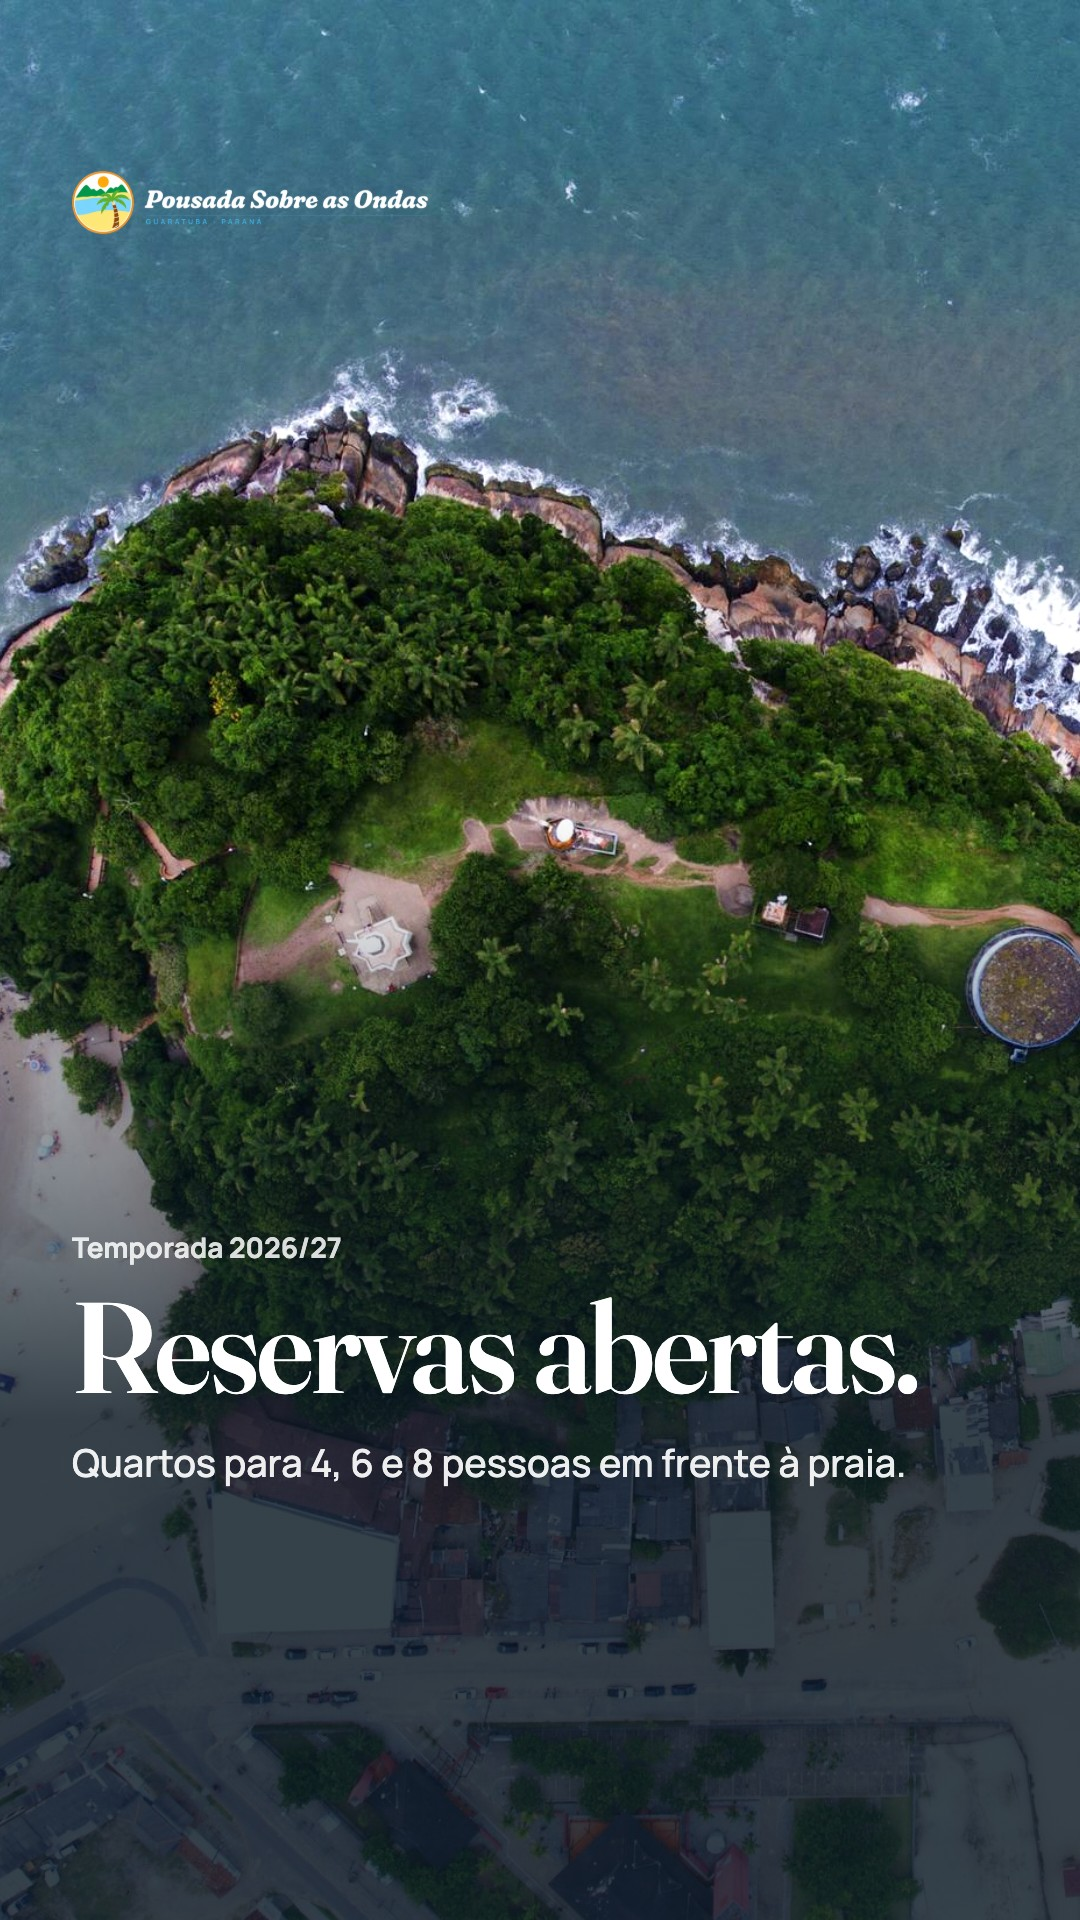
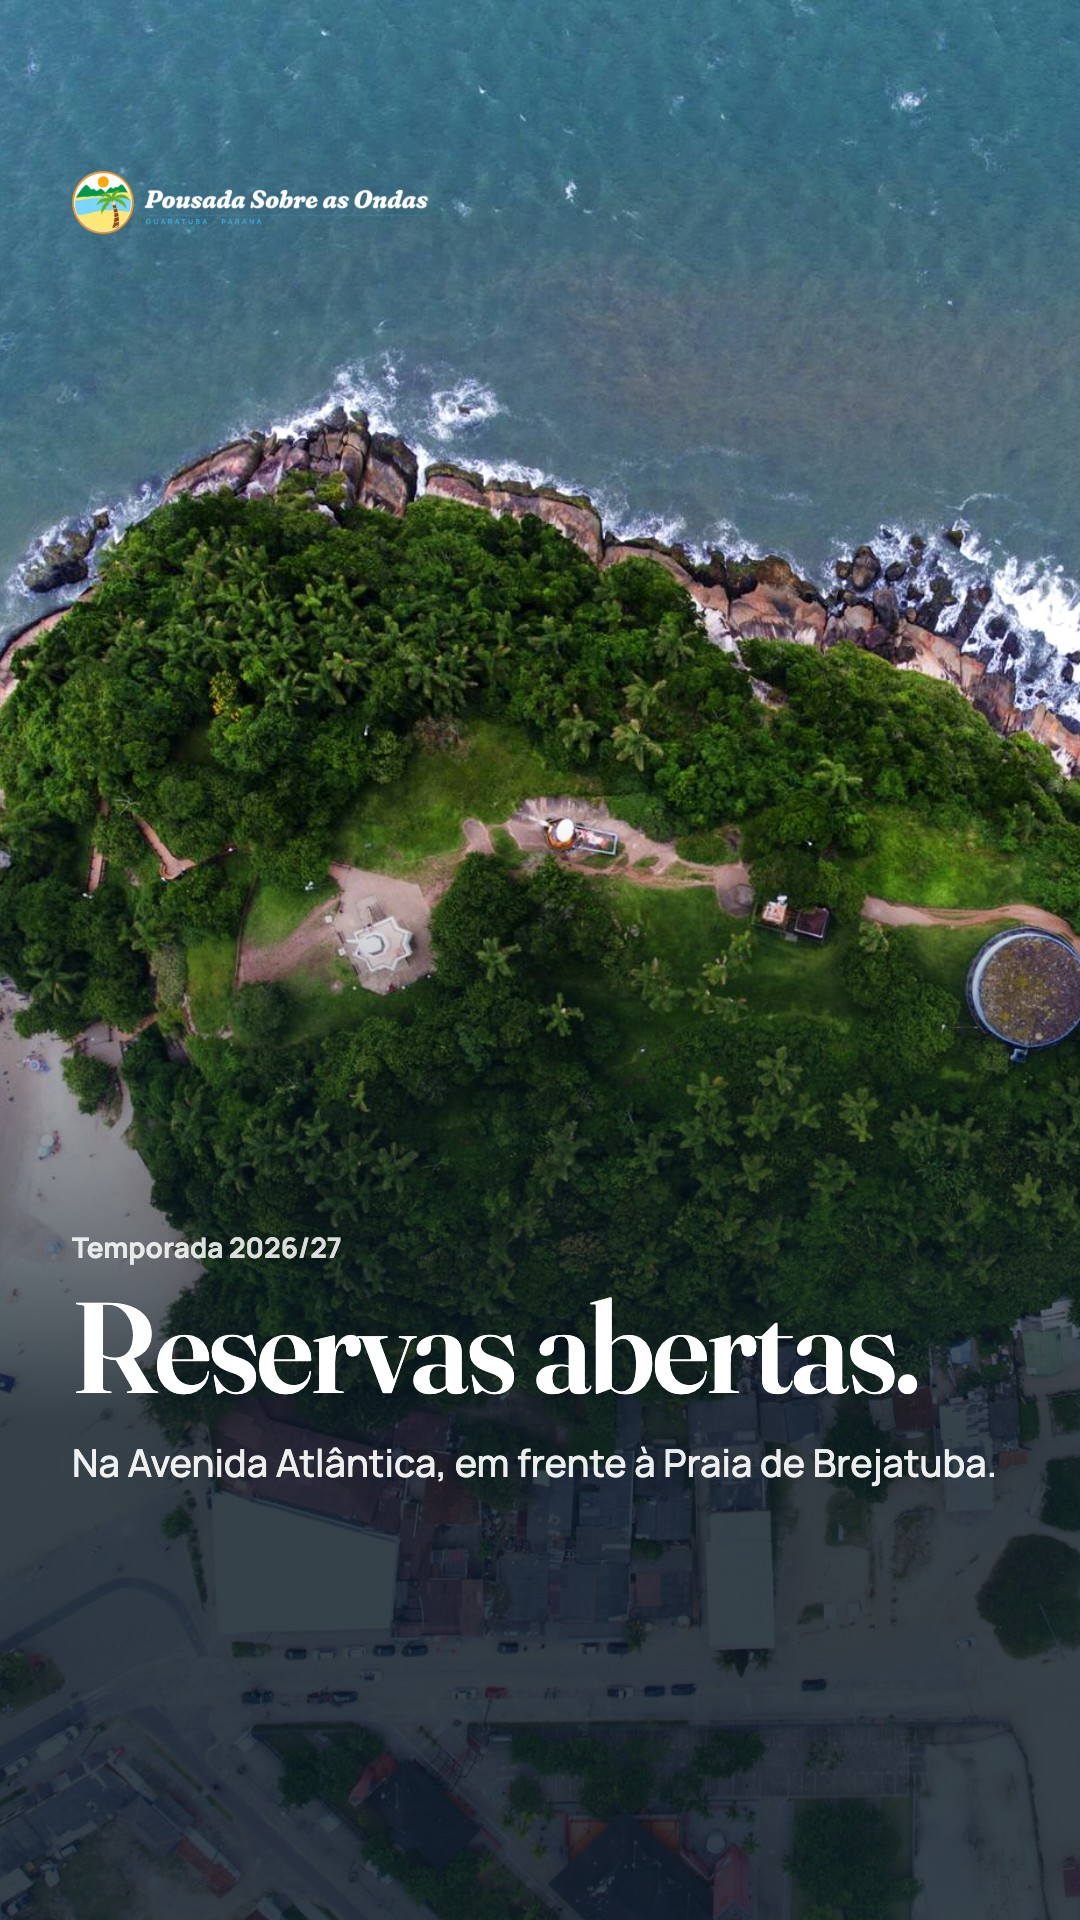
Tira destaque do quarto de 8 pessoas e de quartos com vista para o mar
A pousada continua descrita como em frente à praia, mas os textos não
afirmam mais que os quartos têm vista para o mar. Card do quarto de 8
pessoas sai; grupos maiores consultam pelo WhatsApp.

Changed region(s): [[0.2444, 0.75, 0.9167, 0.7812], [0.0611, 0.75, 0.2139, 0.7812]]

diff --git a/index.html b/index.html
@@ -4,14 +4,14 @@
   <meta charset="utf-8">
   <meta name="viewport" content="width=device-width, initial-scale=1">
   <title>Pousada Sobre as Ondas · Frente para o mar em Guaratuba, PR</title>
-  <meta name="description" content="Pousada Sobre as Ondas: de frente para o mar na Avenida Atlântica, Brejatuba, Guaratuba – PR. Suítes com vista para o mar, quartos para 4, 6 e 8 pessoas com TV, frigobar e ventilador, atendimento 24 horas, Wi-Fi grátis e churrasqueira.">
+  <meta name="description" content="Pousada Sobre as Ondas: de frente para o mar na Avenida Atlântica, Brejatuba, Guaratuba – PR. quartos para famílias e grupos com TV, frigobar e ventilador, atendimento 24 horas, Wi-Fi grátis e churrasqueira.">
   <meta name="keywords" content="pousada guaratuba, pousada frente para o mar, hospedagem guaratuba, brejatuba, morro do cristo, litoral do paraná">
   <meta name="theme-color" content="#0e2a3b">
 
   <meta property="og:type" content="website">
   <meta property="og:locale" content="pt_BR">
   <meta property="og:title" content="Pousada Sobre as Ondas · Guaratuba, PR">
-  <meta property="og:description" content="De frente para o mar, ao lado do Morro do Cristo. Suítes com vista, atendimento 24h e o melhor de Guaratuba.">
+  <meta property="og:description" content="De frente para o mar, ao lado do Morro do Cristo. Atendimento 24h e o melhor de Guaratuba.">
   <meta property="og:url" content="https://pousadasobreasondas.com.br/">
   <meta property="og:image" content="https://pousadasobreasondas.com.br/images/pousada/vista-praia-morro.jpg">
 
@@ -167,11 +167,11 @@
         <div class="hero__titles">
           <h1 class="hero__title is-active">O mar é o seu <em>vizinho</em>.</h1>
           <h2 class="hero__title">Ao pé do <em>Morro do Cristo</em>.</h2>
-          <h2 class="hero__title">Acorde com <em>vista para o mar</em>.</h2>
+          <h2 class="hero__title">A praia do outro lado <em>da avenida</em>.</h2>
           <h2 class="hero__title">Espaço para <em>a família toda</em>.</h2>
           <h2 class="hero__title">O melhor lugar para <em>aproveitar Guaratuba</em>.</h2>
         </div>
-        <p class="hero__lead">De frente para a praia, na Avenida Atlântica. Suítes com vista, atendimento 24 horas e o descanso que você merece.</p>
+        <p class="hero__lead">De frente para a praia, na Avenida Atlântica. Quartos com TV, frigobar e ventilador, atendimento 24 horas e o descanso que você merece.</p>
         <div class="hero__actions">
           <a href="#reservar" class="btn btn--gold">Consultar disponibilidade</a>
           <a href="#sobre" class="btn btn--ghost">Conheça a pousada</a>
@@ -253,7 +253,7 @@
               </div>
             </div>
             <div class="kids-ages" id="kids-ages" hidden></div>
-            <p class="picker__note">Quartos para 4, 6 e 8 pessoas.</p>
+            <p class="picker__note">Quartos para famílias e grupos.</p>
             <div class="picker__foot">
               <button type="button" class="btn btn--gold btn--sm" data-guests="done">Pronto</button>
             </div>
@@ -358,7 +358,7 @@
             </div>
           </article>
           <article class="room-card">
-            <div class="room-card__img"><img src="images/pousada/quarto-vista-mar.jpg" alt="Quarto para 6 pessoas com vista para o mar" loading="lazy"><span class="room-card__tag">Família</span></div>
+            <div class="room-card__img"><img src="images/pousada/quarto-grupo.jpg" alt="Quarto para 6 pessoas" loading="lazy"><span class="room-card__tag">Família</span></div>
             <div class="room-card__body">
               <h3>Quarto para 6 pessoas</h3>
               <p>Mais espaço para a família ou a turma, com conforto para descansar depois do dia de praia.</p>
@@ -371,27 +371,13 @@
               <a class="link-arrow room-card__cta" href="https://api.whatsapp.com/send?phone=5541999021861&amp;text=Ol%C3%A1!%20Gostaria%20de%20consultar%20disponibilidade%20do%20quarto%20para%206%20pessoas." target="_blank" rel="noopener">Consultar este quarto <svg><use href="#i-arrow"/></svg></a>
             </div>
           </article>
-          <article class="room-card">
-            <div class="room-card__img"><img src="images/pousada/quarto-beliches.jpg" alt="Quarto amplo para 8 pessoas com beliches" loading="lazy"><span class="room-card__tag">Grupos</span></div>
-            <div class="room-card__body">
-              <h3>Quarto para 8 pessoas</h3>
-              <p>Amplo e arejado, perfeito para famílias grandes, turmas e excursões.</p>
-              <ul class="room-card__amen">
-                <li><svg><use href="#i-tv"/></svg>TV</li>
-                <li><svg><use href="#i-fan"/></svg>Ventilador</li>
-                <li><svg><use href="#i-fridge"/></svg>Frigobar</li>
-                <li><svg><use href="#i-bath"/></svg>Banheiro</li>
-              </ul>
-              <a class="link-arrow room-card__cta" href="https://api.whatsapp.com/send?phone=5541999021861&amp;text=Ol%C3%A1!%20Gostaria%20de%20consultar%20disponibilidade%20do%20quarto%20para%208%20pessoas." target="_blank" rel="noopener">Consultar este quarto <svg><use href="#i-arrow"/></svg></a>
-            </div>
-          </article>
-        </div>
+                  </div>
       </div>
 
       <div class="container">
         <div class="rooms__info reveal">
           <div class="rooms__info-item"><svg><use href="#i-tv"/></svg><p><strong>Todos os quartos</strong> têm TV, banheiro, ventilador e frigobar.</p></div>
-          <div class="rooms__info-item"><svg><use href="#i-users"/></svg><p><strong>Quartos para 4, 6 e 8 pessoas</strong>, ideais para famílias e grupos.</p></div>
+          <div class="rooms__info-item"><svg><use href="#i-users"/></svg><p><strong>Quartos para 4 e 6 pessoas.</strong> Para grupos maiores, consulte pelo WhatsApp.</p></div>
           <div class="rooms__info-item"><svg><use href="#i-meal"/></svg><p><strong>Na temporada de verão</strong> oferecemos refeições completas.</p></div>
           <div class="rooms__info-item"><svg><use href="#i-bed"/></svg><p><strong>Traga sua roupa de cama:</strong> lençol, travesseiro e fronha.</p></div>
         </div>
@@ -559,7 +545,6 @@
           <a class="g-item" data-cat="quartos" href="images/pousada/quarto-casal-beliche.jpg"><img src="images/pousada/quarto-casal-beliche.jpg" alt="Quarto com cama de casal e beliche" loading="lazy"></a>
           <a class="g-item" data-cat="pousada" href="images/pousada/fachada.jpg"><img src="images/pousada/fachada.jpg" alt="Fachada da pousada" loading="lazy"></a>
           <a class="g-item" data-cat="pousada" href="images/pousada/terraco-vista-morro.jpg"><img src="images/pousada/terraco-vista-morro.jpg" alt="Terraço com vista para o Morro do Cristo" loading="lazy"></a>
-          <a class="g-item" data-cat="quartos" href="images/pousada/quarto-vista-mar.jpg"><img src="images/pousada/quarto-vista-mar.jpg" alt="Quarto com vista para o mar" loading="lazy"></a>
           <a class="g-item" data-cat="pousada" href="images/pousada/buffet-saladas.jpg"><img src="images/pousada/buffet-saladas.jpg" alt="Buffet de saladas" loading="lazy"></a>
           <a class="g-item" data-cat="praia" href="images/pousada/morro-noite.jpg"><img src="images/pousada/morro-noite.jpg" alt="Morro do Cristo iluminado à noite" loading="lazy"></a>
           <a class="g-item" data-cat="pousada" href="images/pousada/vista-praia.jpg"><img src="images/pousada/vista-praia.jpg" alt="Praia de Brejatuba vista da pousada" loading="lazy"></a>
